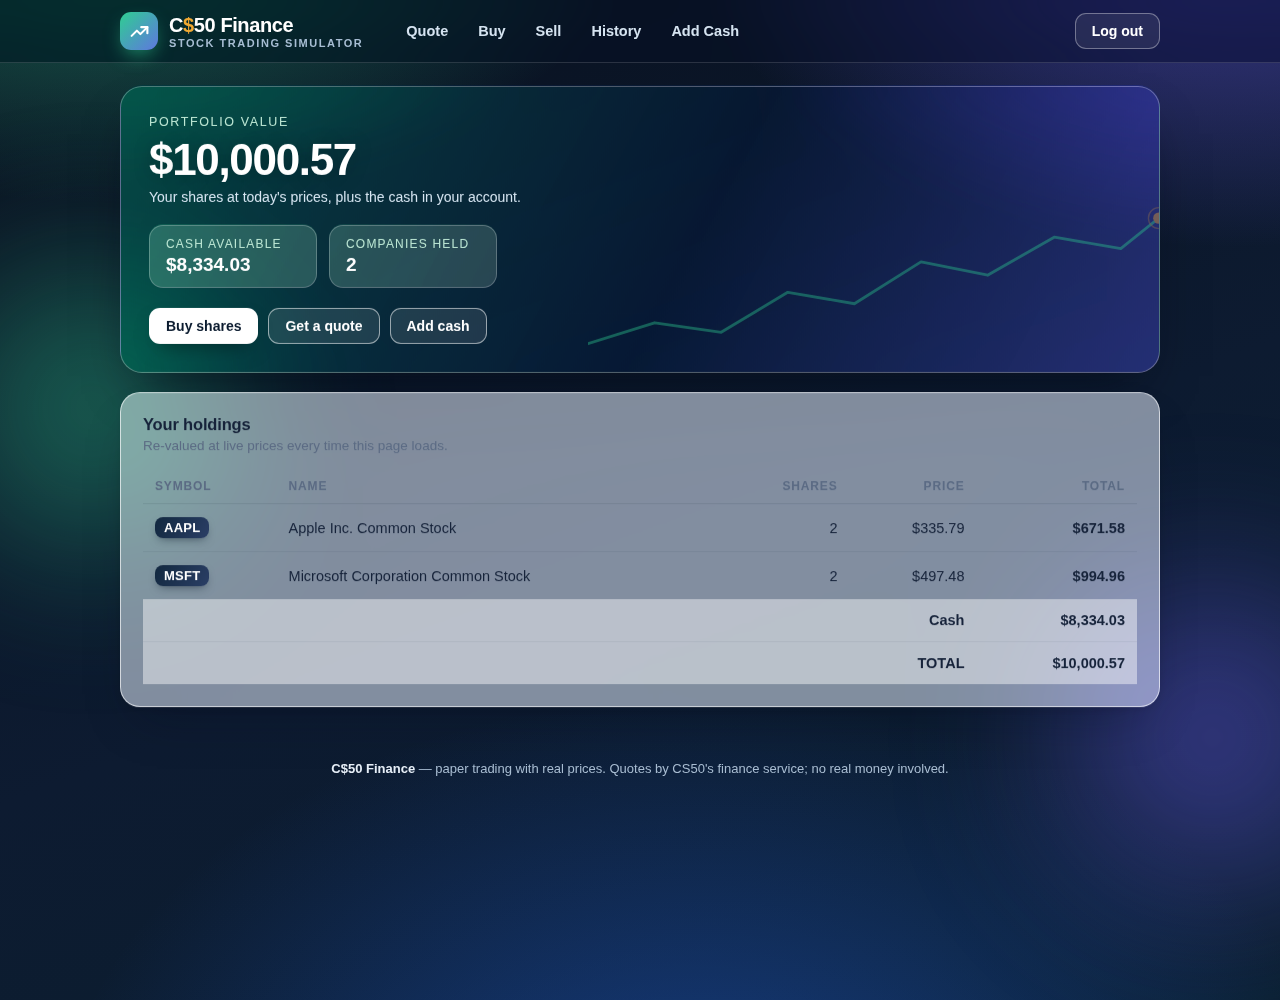
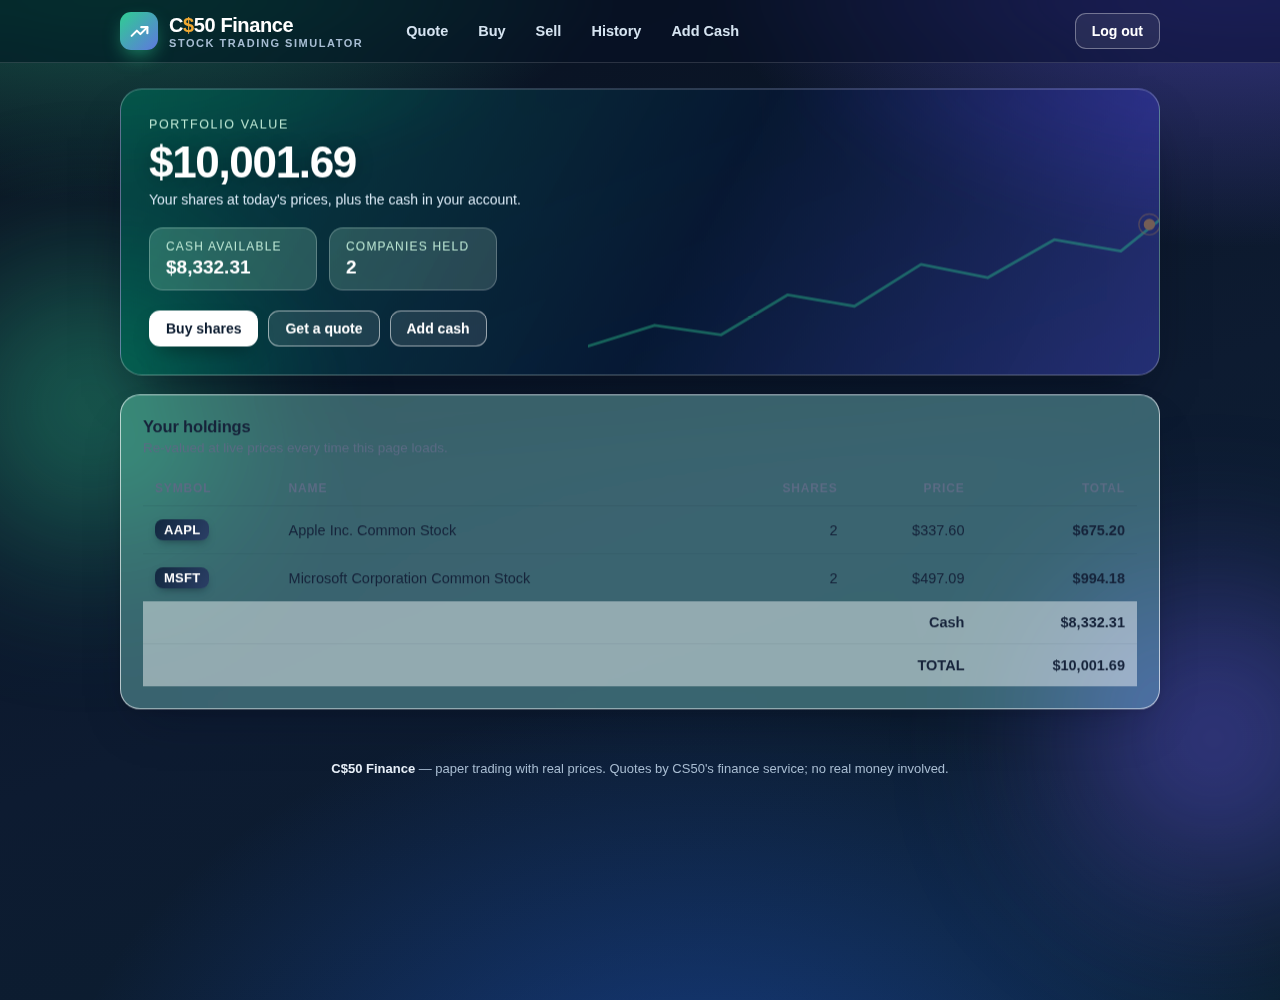
Final design: green transparent glass

diff --git a/static/styles.css b/static/styles.css
@@ -11,8 +11,8 @@
   --ink: #16233a;
   --ink-soft: #5b6b84;
   --line: rgba(255, 255, 255, .65);
-  --glass: rgba(255, 255, 255, .5);
-  --glass-strong: rgba(255, 255, 255, .66);
+  --glass: rgba(163, 240, 205, .34);
+  --glass-strong: rgba(163, 240, 205, .48);
   --red: #e35d5d;
   --red-soft: rgba(255, 236, 236, .9);
   --radius: 20px;
@@ -132,7 +132,7 @@ a:hover { text-decoration: underline; }
 }
 /* Hover: the panel lifts, expands a touch and turns crystal clear */
 .card:hover {
-  background: rgba(255, 255, 255, .9);
+  background: rgba(190, 248, 218, .78);
   box-shadow: 0 4px 10px rgba(6, 12, 30, .1), 0 34px 60px -22px rgba(6, 12, 30, .5);
   scale: 1.012;
   animation-play-state: paused;
